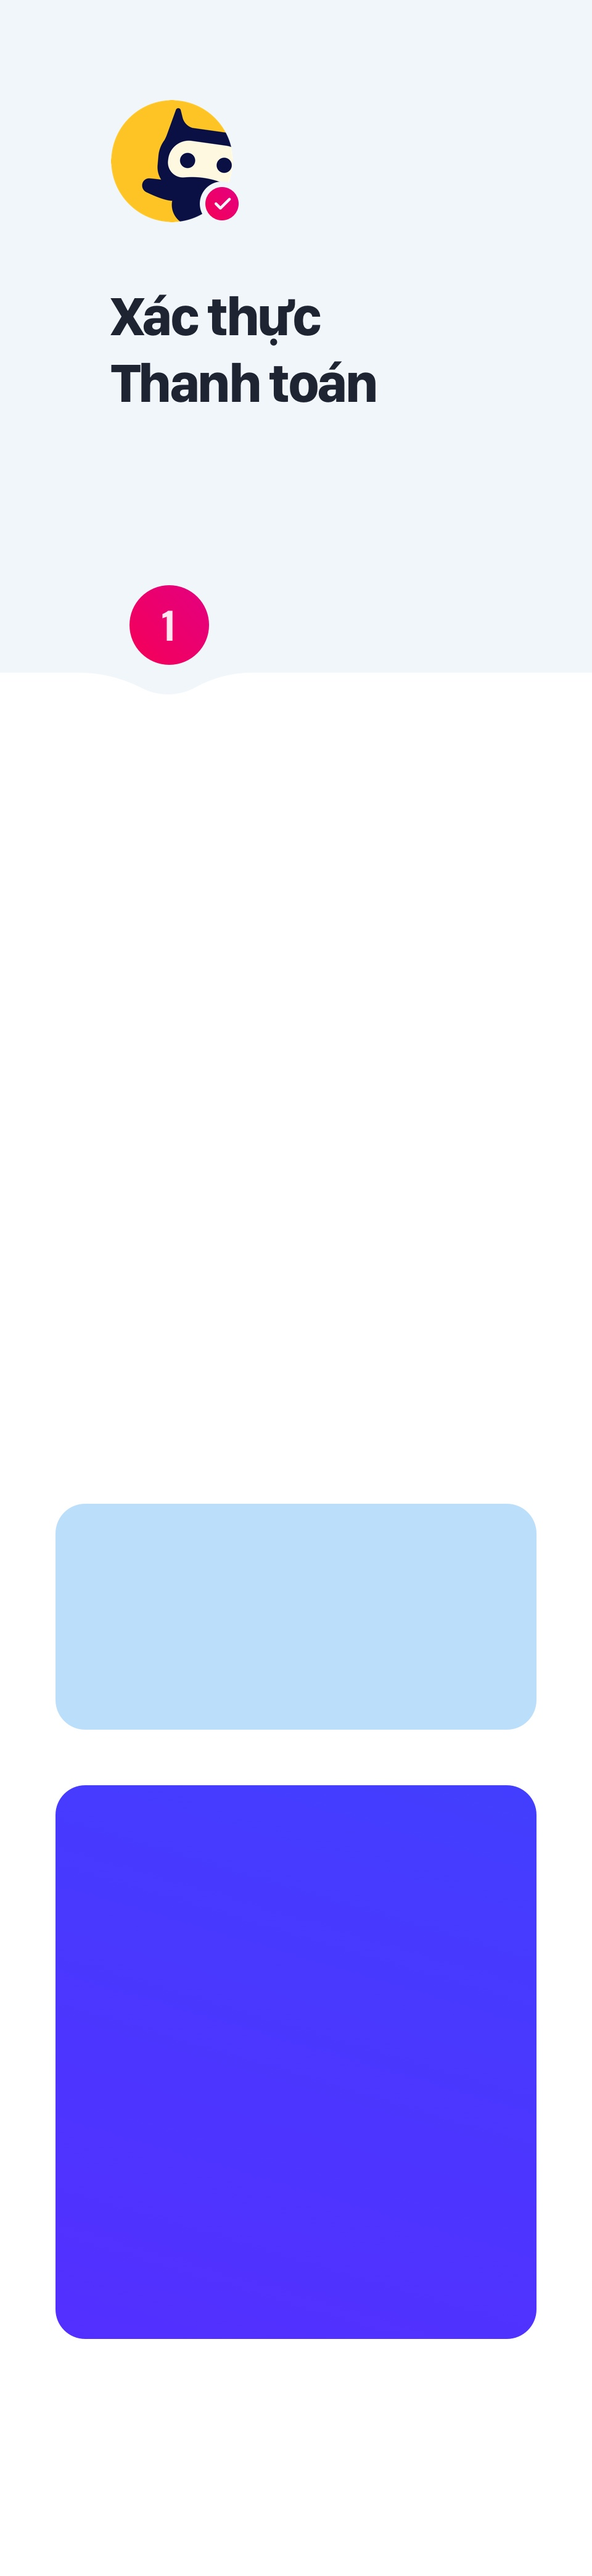
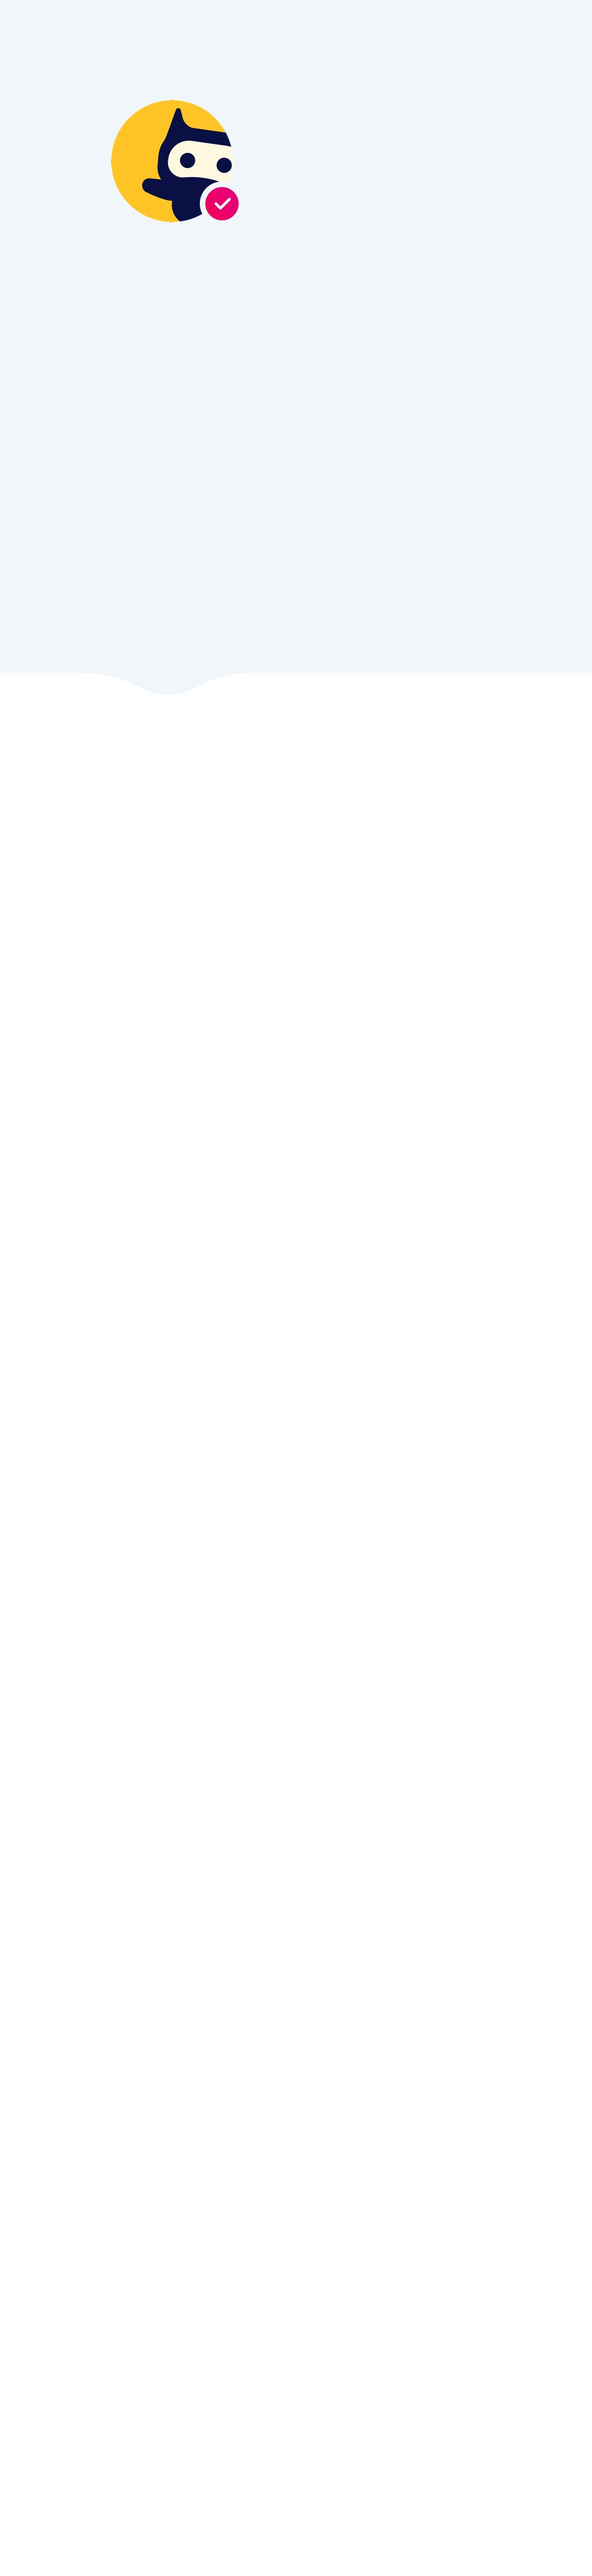
post

Changed region(s): [[0.0938, 0.5607, 0.9062, 0.9346], [0.1875, 0.0935, 0.625, 0.1558], [0.2188, 0.2181, 0.375, 0.2804]]

diff --git a/public/connect_guide.html b/public/connect_guide.html
@@ -5,9 +5,9 @@
     <meta charset="utf-8">
     <meta name="viewport" content="width=device-width, initial-scale=1, shrink-to-fit=no, user-scalable=no">
     <meta name="format-detection" content="090 810 3357">
-    <title>Chanchan - Thanh toán và xác thực</title>
-    <meta name="description" content="Hướng dẫn xác thực"/>
-    <meta property="og:image" content="https://chanchan.vn/media/paid/paid.jpg" />
+    <title>Chanchan - Lưu ý kết nối</title>
+    <meta name="description" content="Những lưu ý để hai bạn có một kết nối tích cực"/>
+    <meta property="og:image" content="https://chanchan.vn/media/connect_guide/connect_guide.jpg" />
     
     <link rel="shortcut icon" type="image/x-icon" href="media/other/favicon.png">
     <link rel="stylesheet" type="text/css" href="css/pagetemp0710.css">
@@ -27,14 +27,6 @@
                             <img src="" alt="" class="fullWidth fullHeight">
                         </div>
                     </div>
-                    <div class="single-img-with-cover component">            
-                        <img src="media/paid/2.svg" alt="cover" onload="SVGInject(this)" class="fullWidth fullHeight">
-                        <div class="single-image" src="media/paid/2.jpg">
-                            <img src="" alt="" class="fullWidth fullHeight">
-                        </div>
-                    </div>
-                </div>
-            </div>
             <!-- //Content -->
         </main>
         <!-- //Container -->

diff --git a/public/index.html b/public/index.html
@@ -6,7 +6,7 @@
     <meta name="viewport" content="width=device-width, initial-scale=1, shrink-to-fit=no, user-scalable=no">
     <meta name="format-detection" content="090 810 3357">
     <title>Chanchan - Trợ lý kết nối</title>
-    <meta name="description" content="Trợ lý kết nối, hẹn hò dành cho người trưởng thành. Phù hợp các bạn bận công việc ít thời gian dành cho bản thân, các bạn làm việc nơi công sở."/>
+    <meta name="description" content="Trợ lý kết nối, hẹn hò dành cho người trưởng thành. Phù hợp các bạn bận công việc ít thời gian dành cho bản thân, các bạn làm việc nơi công sở"/>
     <meta property="og:image" content="https://chanchan.vn/media/other/trial.jpg" />
     
     <link rel="shortcut icon" type="image/x-icon" href="media/other/favicon.png">

diff --git a/public/trial.html b/public/trial.html
@@ -6,7 +6,7 @@
     <meta name="viewport" content="width=device-width, initial-scale=1, shrink-to-fit=no, user-scalable=no">
     <meta name="format-detection" content="090 810 3357">
     <title>Chanchan - Trợ lý kết nối</title>
-    <meta name="description" content="Trợ lý kết nối, hẹn hò dành cho người trưởng thành. Phù hợp các bạn bận công việc ít thời gian dành cho bản thân, các bạn làm việc nơi công sở."/>
+    <meta name="description" content="Trợ lý kết nối, hẹn hò dành cho người trưởng thành. Phù hợp các bạn bận công việc ít thời gian dành cho bản thân, các bạn làm việc nơi công sở"/>
     <meta property="og:image" content="https://chanchan.vn/media/other/trial.jpg" />
     
     <link rel="shortcut icon" type="image/x-icon" href="media/other/favicon.png">

diff --git a/app.js b/app.js
@@ -98,6 +98,9 @@ app.get('/remember', function (req, res) {
 app.get('/concept', function (req, res) {
     res.sendFile(__dirname + '/public/index.html');
 });
+app.get('/connect_guide', function (req, res) {
+    res.sendFile(__dirname + '/public/connect_guide.html');
+});
 
 // get form
 app.get('/believe', function (req, res) {
